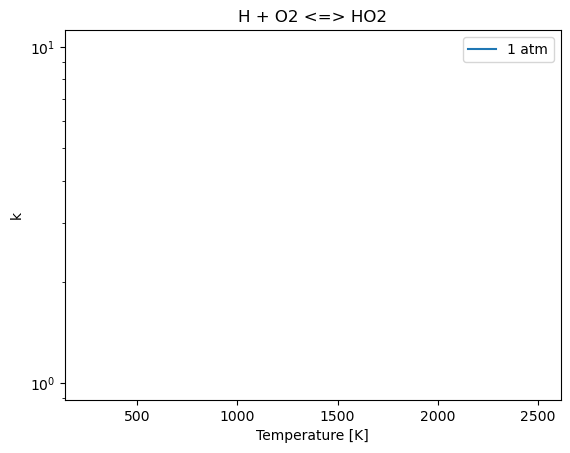
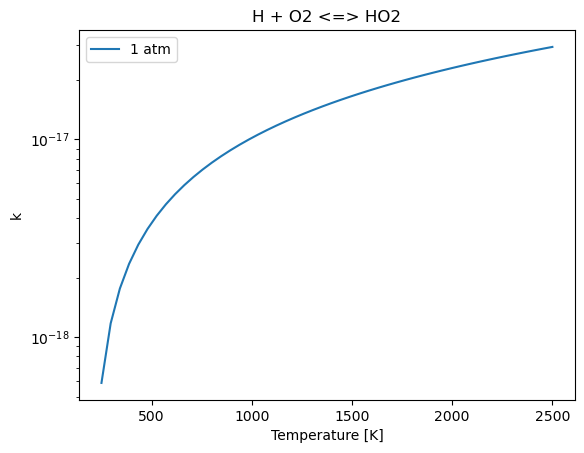
updates

diff --git a/src/kinetics/LmrRate.cpp b/src/kinetics/LmrRate.cpp
@@ -23,6 +23,9 @@ bool LmrData::update(const ThermoPhase& phase, const Kinetics& kin){
     if (allSpecies_.empty()){
         allSpecies_ = phase.speciesNames();
     }
+    if (moleFractions.empty()){
+        moleFractions.resize(allSpecies_.size());
+    }
     if (P != pressure || T != temperature || X != mfNumber) {
         ReactionData::update(T);
         pressure = P;
@@ -228,7 +231,7 @@ double LmrRate::evalFromStruct(const LmrData& shared_data){
     
     for (size_t i=0; i<shared_data.allSpecies_.size(); i++){ //testing each species listed at the top of yaml file
         double Xi = shared_data.moleFractions[i];
-        //writelog("Xi = {}\n", Xi);
+        writelog("1 Xi = {}\n", Xi);
         std::map<string, ArrheniusRate>::iterator it = eig0_.find(shared_data.allSpecies_[i]);
         if (it != eig0_.end()) {//key found, i.e. species has corresponding LMR data  
             eig0_mix += Xi*eig0_[shared_data.allSpecies_[i]].evalRate(shared_data.logT, shared_data.recipT);
@@ -241,6 +244,7 @@ double LmrRate::evalFromStruct(const LmrData& shared_data){
     //writelog("log_eig0_mix = {}\n", log_eig0_mix);
     for (size_t i=0; i<shared_data.allSpecies_.size(); i++){ //testing each species listed at the top of yaml file
         double Xi = shared_data.moleFractions[i];
+        writelog("2 Xi={}\n", Xi);
         double eig0; //eig0 val of a single species
         std::map<string, ArrheniusRate>::iterator it = eig0_.find(shared_data.allSpecies_[i]);
         if (it != eig0_.end()) {
@@ -252,17 +256,17 @@ double LmrRate::evalFromStruct(const LmrData& shared_data){
             pressures_s_=pressures_["M"];
             rates_s_=rates_["M"];
         }
-        if (shared_data.logP != logP_) { //WHAT IS THE PURPOSE OF THIS STEP?
+        // if (shared_data.logP != logP_) { //WHAT IS THE PURPOSE OF THIS STEP?
             logP_=shared_data.logP; 
             logPeff_=logP_+log_eig0_mix-log(eig0); //Peff is the effective pressure, formerly called "Ptilde" 
             writelog("eig0={}\n", eig0);
-            writelog("Xi={}\n", Xi);
+            writelog("3 Xi={}\n", Xi);
             writelog("eig0_mix={}\n", eig0_mix);
             writelog("logP={}\n", logP_);
             writelog("logPeff={}\n", logPeff_);
             writelog("k_LMR_ += {}\n", LmrRate::speciesPlogRate(shared_data)*eig0*Xi/eig0_mix);
             k_LMR_ += LmrRate::speciesPlogRate(shared_data)*eig0*Xi/eig0_mix;
-        }
+        // }
     }
     return k_LMR_;
 }

diff --git a/validation_burkelab.py b/validation_burkelab.py
@@ -17,7 +17,7 @@ for i, R in enumerate(reactions):
     for j, P in enumerate(Pres):
         temp_list = []
         for k,T in enumerate(Temp):
-            gas.TPX = T,P,{'H2O':1}
+            gas.TPX = T,P,{'O':1}
             rc = gas.forward_rate_constants[gas.reaction_equations().index(R)]
             temp_list.append(rc)
         k_list.append(temp_list)  
